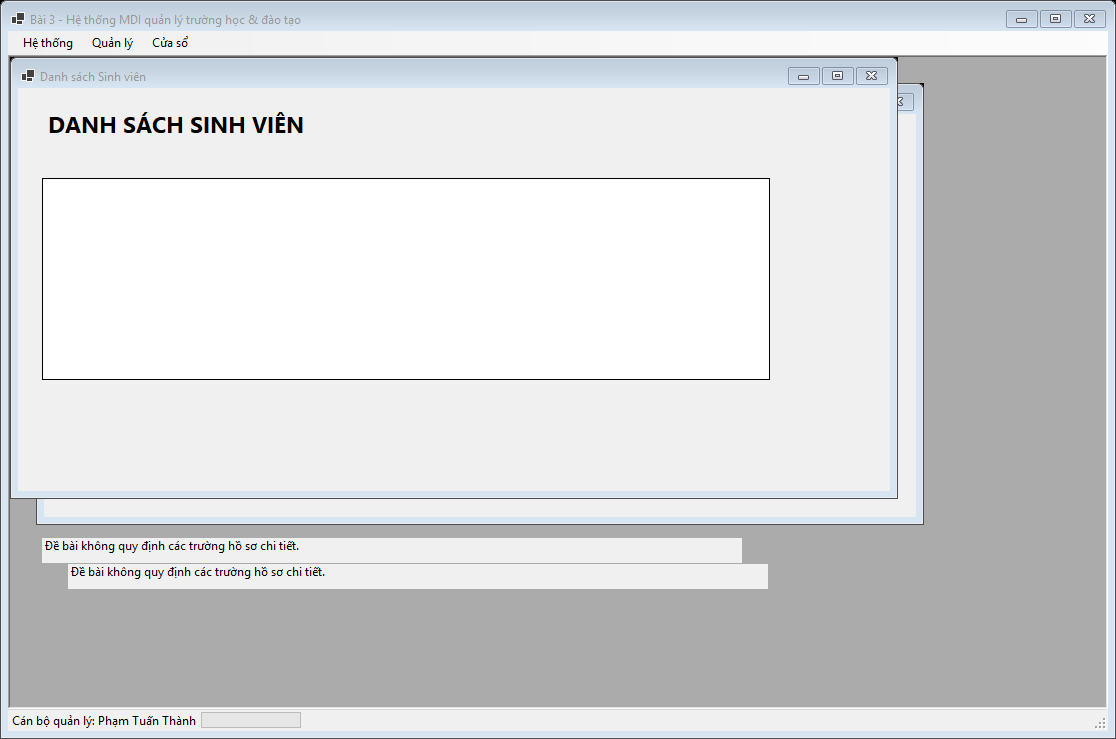
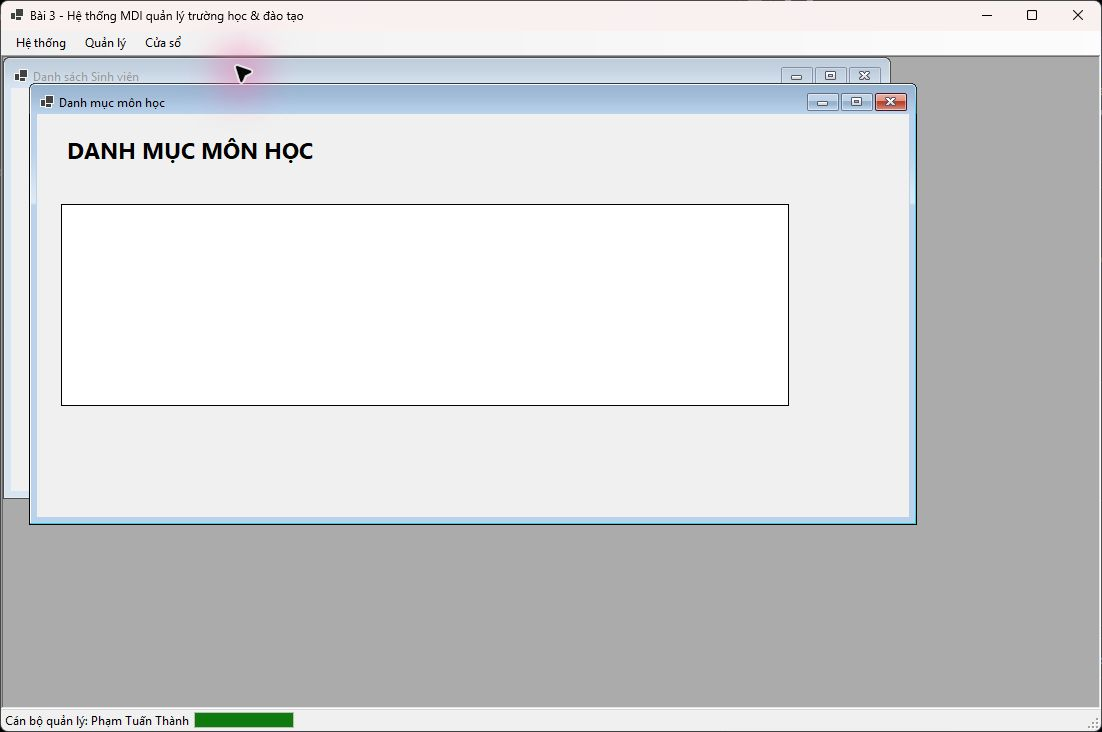
Remove unsolicited scope labels and replace MDI screenshot

Changed region(s): [[0.0, 0.0, 1.0, 1.0], [0.6788, 0.2705, 0.7096, 0.3005]]

diff --git a/src/WinFormsApp/Forms/frmCourseList.Designer.cs b/src/WinFormsApp/Forms/frmCourseList.Designer.cs
@@ -32,13 +32,6 @@ dgvRecords.SelectionMode = DataGridViewSelectionMode.FullRowSelect;
 dgvRecords.AutoSizeColumnsMode = DataGridViewAutoSizeColumnsMode.Fill;
 dgvRecords.BackgroundColor = Color.White;
 Controls.Add(dgvRecords);
-lblScope = new Label();
-lblScope.UseMnemonic = false;
-lblScope.Name = "lblScope";
-lblScope.Location = new Point(24, 450);
-lblScope.Size = new Size(700, 25);
-lblScope.Text = "Đề bài không quy định các trường hồ sơ chi tiết.";
-Controls.Add(lblScope);
 AutoScaleDimensions = new SizeF(7F, 15F);
 AutoScaleMode = AutoScaleMode.Font;
 ClientSize = new Size(760, 510);
@@ -52,5 +45,4 @@ PerformLayout();
     }
     internal Label lblTitle = null!;
 internal DataGridView dgvRecords = null!;
-internal Label lblScope = null!;
 }

diff --git a/src/WinFormsApp/Forms/frmStudentList.Designer.cs b/src/WinFormsApp/Forms/frmStudentList.Designer.cs
@@ -32,13 +32,6 @@ dgvRecords.SelectionMode = DataGridViewSelectionMode.FullRowSelect;
 dgvRecords.AutoSizeColumnsMode = DataGridViewAutoSizeColumnsMode.Fill;
 dgvRecords.BackgroundColor = Color.White;
 Controls.Add(dgvRecords);
-lblScope = new Label();
-lblScope.UseMnemonic = false;
-lblScope.Name = "lblScope";
-lblScope.Location = new Point(24, 450);
-lblScope.Size = new Size(700, 25);
-lblScope.Text = "Đề bài không quy định các trường hồ sơ chi tiết.";
-Controls.Add(lblScope);
 AutoScaleDimensions = new SizeF(7F, 15F);
 AutoScaleMode = AutoScaleMode.Font;
 ClientSize = new Size(760, 510);
@@ -52,5 +45,4 @@ PerformLayout();
     }
     internal Label lblTitle = null!;
 internal DataGridView dgvRecords = null!;
-internal Label lblScope = null!;
 }
